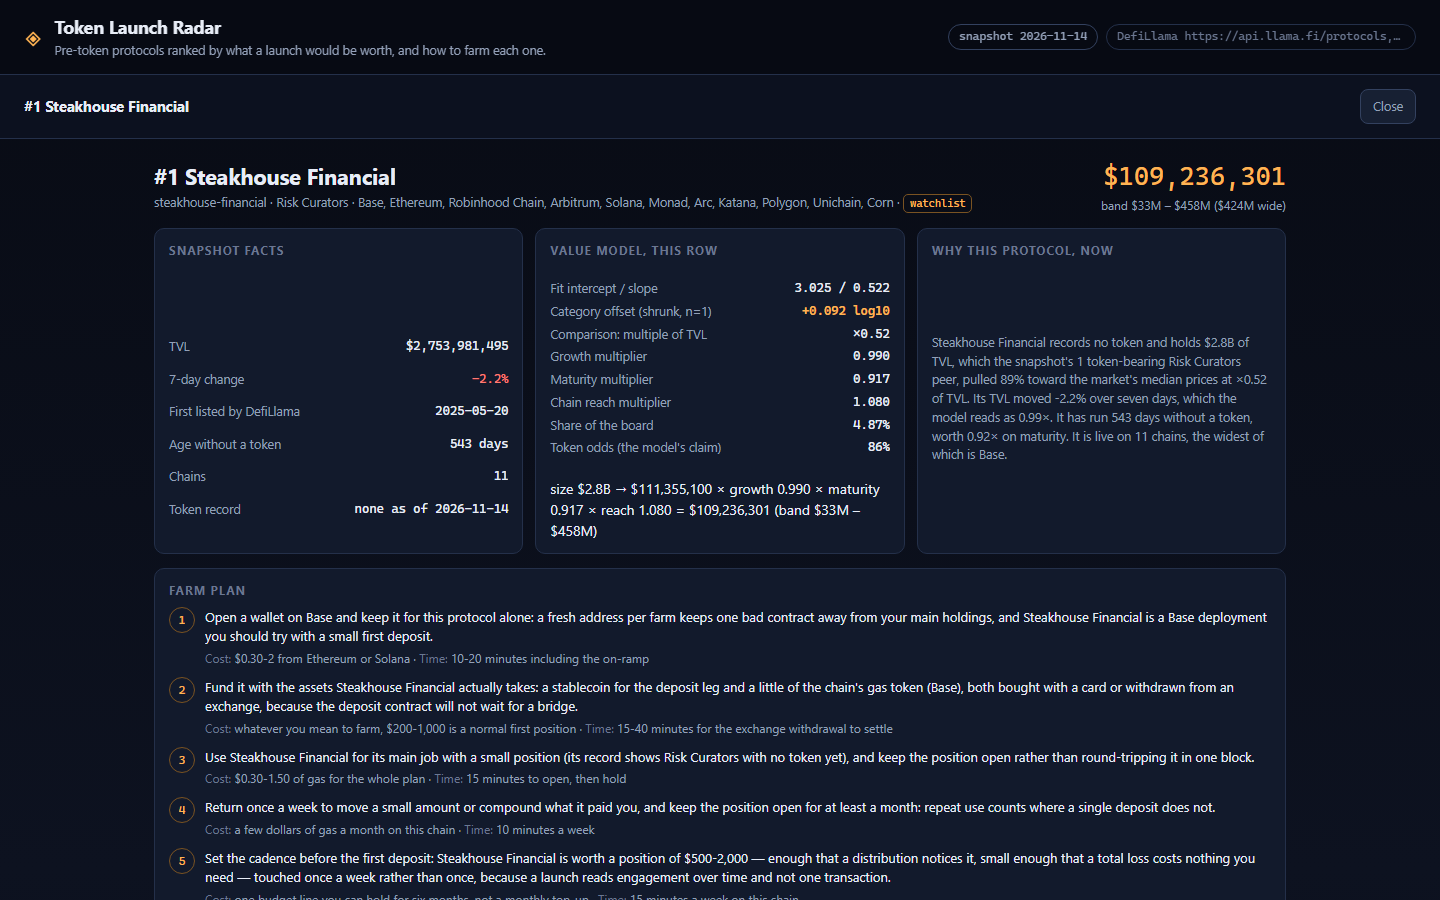
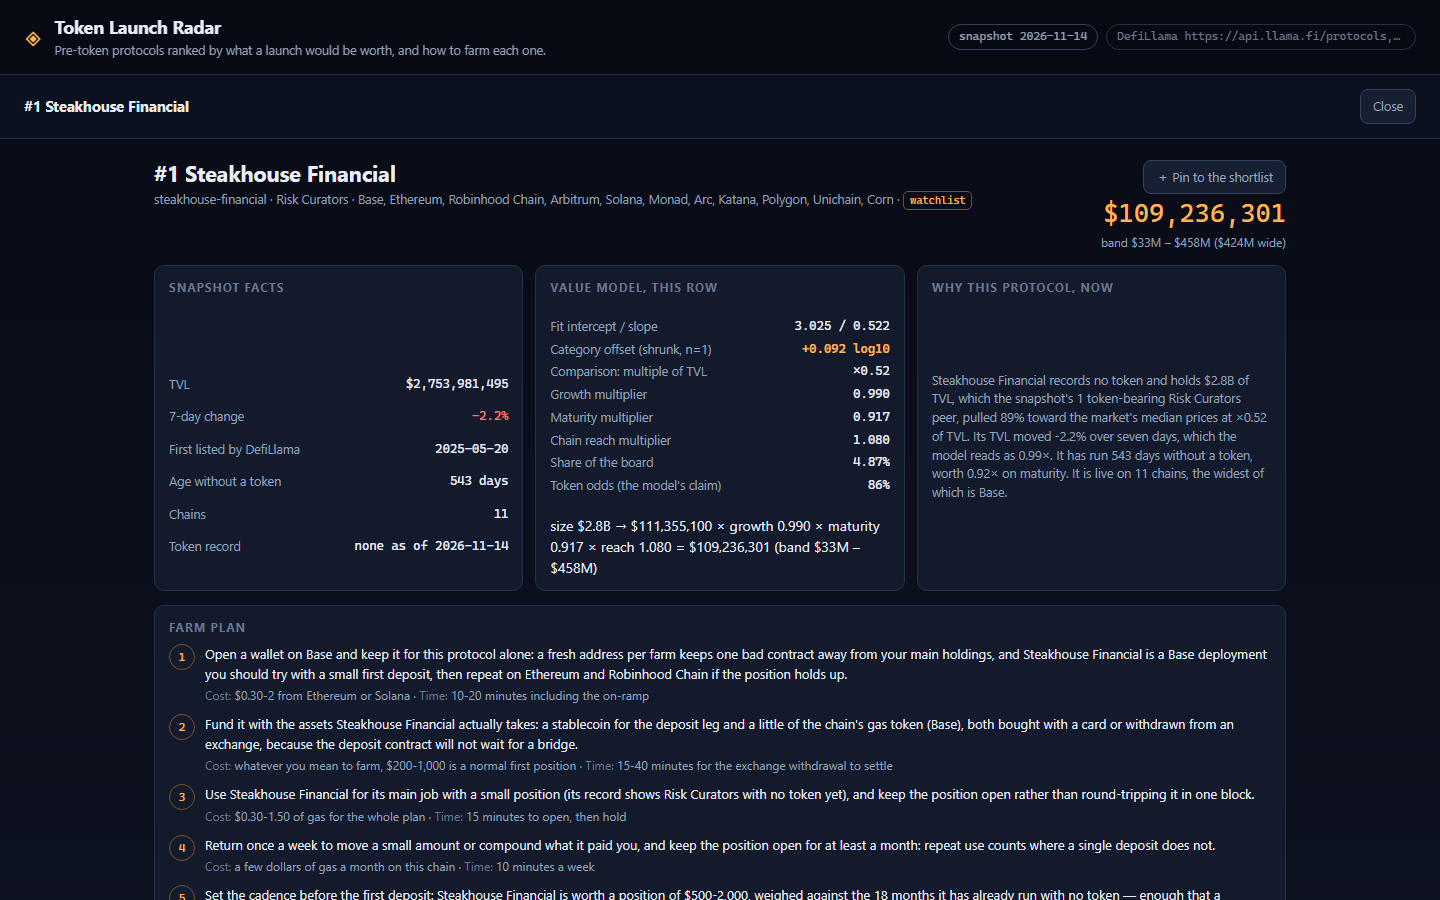
A shortlist with pinning, a side-by-side compare view, plans that follow the row chains, and a mirroring output copy

diff --git a/dashboard/app.js b/dashboard/app.js
@@ -63,8 +63,24 @@
     minTvl: 0,
     sort: 'rank',
     growing: false,
-    slug: null
+    slug: null,
+    pins: [],
+    compare: []
   };
+  var STORE = 'token-radar-shortlist-v1';
+  function readStoredPins() {
+    try {
+      var saved = window.localStorage.getItem(STORE);
+      if (!saved) return [];
+      var list = JSON.parse(saved);
+      return Array.isArray(list) ? list.filter(function (s) { return bySlug[s]; }) : [];
+    } catch (e) {
+      return [];
+    }
+  }
+  function storePins() {
+    try { window.localStorage.setItem(STORE, JSON.stringify(state.pins)); } catch (e) { /* a file:// page may refuse; the address still carries them */ }
+  }
   var params = new URLSearchParams(window.location.search);
   ['view', 'q', 'category', 'chain', 'sort', 'slug'].forEach(function (key) {
     var value = params.get(key);
@@ -72,6 +88,10 @@
   });
   if (params.get('minTvl')) state.minTvl = Number(params.get('minTvl')) || 0;
   if (params.get('growing') === '1') state.growing = true;
+  var urlPins = (params.get('pins') || '').split(',').filter(function (s) { return bySlug[s]; });
+  state.pins = urlPins.length ? urlPins : readStoredPins();
+  state.compare = (params.get('compare') || '').split(',').filter(function (s) { return bySlug[s]; }).slice(0, 2);
+  if (state.compare.length === 2 && !params.get('view')) state.view = 'compare';
 
   function push() {
     var q = new URLSearchParams();
@@ -83,6 +103,8 @@
     if (state.sort !== 'rank') q.set('sort', state.sort);
     if (state.growing) q.set('growing', '1');
     if (state.slug) q.set('slug', state.slug);
+    if (state.pins.length) q.set('pins', state.pins.join(','));
+    if (state.compare.length) q.set('compare', state.compare.join(','));
     var url = window.location.pathname + (q.toString() ? '?' + q.toString() : '');
     try { window.history.replaceState(null, '', url); } catch (e) { /* a file:// page may refuse; the view still works */ }
   }
@@ -201,6 +223,7 @@
         '<td class="num bandcell">' + usd(r.implied_low_usd) + ' – ' + usd(r.implied_high_usd) + '</td>' +
         '<td class="num">' + Math.round(r.token_odds * 100) + '%</td>' +
         '<td class="plan">' + r.farm_plan.length + ' steps · ' + esc(String(r.farm_plan[0].step).slice(0, 62)) + '…</td>' +
+        '<td><button type="button" class="pin' + (state.pins.indexOf(r.slug) >= 0 ? ' is-on' : '') + '" data-pin="' + esc(r.slug) + '" title="' + (state.pins.indexOf(r.slug) >= 0 ? 'Unpin' : 'Pin to the shortlist') + '">' + (state.pins.indexOf(r.slug) >= 0 ? '★' : '＋') + '</button></td>' +
         '</tr>';
     }).join('');
     var what = state.view === 'watch' ? 'watchlist rows' : 'ranked pre-token rows';
@@ -215,7 +238,7 @@
     livePanel.hidden = state.view !== 'live';
     marketPanel.hidden = state.view !== 'market';
     validationPanel.hidden = state.view !== 'validation';
-    var boardHidden = state.view === 'live' || state.view === 'market' || state.view === 'validation';
+    var boardHidden = state.view === 'live' || state.view === 'market' || state.view === 'validation' || state.view === 'compare';
     document.querySelector('.panel[aria-labelledby="boardh"]').hidden = boardHidden;
     el('kpis').hidden = state.view === 'validation';
     el('chartPanel').hidden = boardHidden;
@@ -279,8 +302,9 @@
       '<div class="dhead">' +
         '<div><h3>#' + r.rank + ' ' + esc(r.name) + '</h3>' +
         '<div class="dsub">' + esc(r.slug) + ' · ' + esc(r.category || 'uncategorised') + ' · ' + esc((r.chains || []).join(', ') || 'no chain recorded') +
-        (r.on_watchlist ? ' · <span class="badge">watchlist</span>' : ' · below the watchlist floor') + '</div></div>' +
-        '<div class="dvalue"><div class="v">' + usdExact(r.implied_value_usd) + '</div>' +
+        (r.on_watchlist ? ' · <span class="badge">watchlist</span>' : ' · off the watchlist, ranked by the model all the same') + '</div></div>' +
+        '<div class="dvalue"><button type="button" class="reset" data-pin="' + esc(r.slug) + '">' + (state.pins.indexOf(r.slug) >= 0 ? '★ Pinned' : '＋ Pin to the shortlist') + '</button>' +
+        '<div class="v">' + usdExact(r.implied_value_usd) + '</div>' +
         '<div class="s">band ' + usd(r.implied_low_usd) + ' – ' + usd(r.implied_high_usd) + ' (' + usd(band) + ' wide)</div></div>' +
       '</div>' +
       '<div class="dgrid">' +
@@ -349,6 +373,12 @@
   }
 
   el('rows').addEventListener('click', function (event) {
+    var pin = event.target.closest('[data-pin]');
+    if (pin) {
+      event.stopPropagation();
+      togglePin(pin.getAttribute('data-pin'));
+      return;
+    }
     var tr = event.target.closest('tr[data-slug]');
     if (tr) openDetail(tr.getAttribute('data-slug'));
   });
@@ -376,6 +406,10 @@
     document.body.removeChild(link);
   });
   el('close').addEventListener('click', closeDetail);
+  el('detail').addEventListener('click', function (event) {
+    var pin = event.target.closest('[data-pin]');
+    if (pin) togglePin(pin.getAttribute('data-pin'));
+  });
   document.addEventListener('keydown', function (event) {
     if (event.key === 'Escape' && state.slug) closeDetail();
   });
@@ -410,18 +444,107 @@
     });
   });
   Array.prototype.forEach.call(document.querySelectorAll('.tab'), function (tab) {
-    tab.addEventListener('click', function () {
-      state.view = tab.getAttribute('data-view');
-      Array.prototype.forEach.call(document.querySelectorAll('.tab'), function (other) {
-        var on = other === tab;
-        other.classList.toggle('is-on', on);
-        other.setAttribute('aria-selected', on ? 'true' : 'false');
-      });
-      closeDetailIfOpen();
-      render(); push();
-    });
+    tab.addEventListener('click', function () { setView(tab.getAttribute('data-view')); });
   });
   function closeDetailIfOpen() { if (state.slug) closeDetail(); }
+
+  // ---------------------------------------------------------------- shortlist and side by side
+  function togglePin(slug) {
+    var at = state.pins.indexOf(slug);
+    if (at >= 0) state.pins.splice(at, 1);
+    else state.pins.push(slug);
+    storePins();
+    renderPins();
+    render();
+    push();
+  }
+
+  function renderPins() {
+    var pinned = state.pins.map(function (slug) { return bySlug[slug]; }).filter(Boolean);
+    el('pinnedPanel').hidden = pinned.length === 0;
+    el('pinnedList').innerHTML = pinned.map(function (r) {
+      return '<div class="pinrow">' +
+        '<span class="rank">#' + r.rank + '</span>' +
+        '<span>' + esc(r.name) + ' <span class="slug">' + esc(r.category || '—') + '</span></span>' +
+        '<span class="val">' + usd(r.implied_value_usd) + '</span>' +
+        '<span class="meta">odds ' + Math.round(r.token_odds * 100) + '%</span>' +
+        '<span class="meta">' + (r.on_watchlist ? 'watchlist' : 'off the watchlist') + '</span>' +
+        '<span><button type="button" class="pin is-on" data-unpin="' + esc(r.slug) + '" title="Unpin">×</button>' +
+        ' <button type="button" class="reset" data-solo="' + esc(r.slug) + '">Open</button></span>' +
+      '</div>';
+    }).join('');
+    el('compare').hidden = pinned.length < 2;
+    el('clearPins').hidden = pinned.length === 0;
+  }
+
+  el('pinnedList').addEventListener('click', function (event) {
+    var unpin = event.target.closest('[data-unpin]');
+    if (unpin) { togglePin(unpin.getAttribute('data-unpin')); return; }
+    var solo = event.target.closest('[data-solo]');
+    if (solo) { state.compare = []; openDetail(solo.getAttribute('data-solo')); }
+  });
+  el('clearPins').addEventListener('click', function () {
+    state.pins = [];
+    state.compare = [];
+    storePins();
+    setView(state.view === 'compare' ? 'pre' : state.view);
+  });
+  el('compare').addEventListener('click', function () {
+    state.compare = state.pins.slice(0, 2);
+    setView('compare');
+  });
+  function setView(view) {
+    state.view = view;
+    Array.prototype.forEach.call(document.querySelectorAll('.tab'), function (tab) {
+      var on = tab.getAttribute('data-view') === view;
+      tab.classList.toggle('is-on', on);
+      tab.setAttribute('aria-selected', on ? 'true' : 'false');
+    });
+    closeDetailIfOpen();
+    render();
+    push();
+  }
+
+  function compareSide(r) {
+    var peers = (peersByCategory[r.category || 'Uncategorised'] || []).slice(0, 5);
+    var steps = r.farm_plan.slice(0, 4).map(function (s) {
+      return '<li><div><div class="what">' + esc(s.step) + '</div><div class="when"><span>Cost:</span> ' + esc(s.cost) + ' · <span>Time:</span> ' + esc(s.time) + '</div></div></li>';
+    }).join('');
+    return '<div class="side">' +
+      '<h3>#' + r.rank + ' ' + esc(r.name) + (r.on_watchlist ? '<span class="badge">watchlist</span>' : '') + '</h3>' +
+      '<div class="dsub">' + esc(r.category || 'uncategorised') + ' · ' + esc((r.chains || []).join(', ') || 'no chain recorded') + '</div>' +
+      '<div class="card"><h4>Value</h4><dl class="kv">' +
+        '<dt>Implied value</dt><dd class="val">' + usdExact(r.implied_value_usd) + '</dd>' +
+        '<dt>Band</dt><dd>' + usd(r.implied_low_usd) + ' – ' + usd(r.implied_high_usd) + '</dd>' +
+        '<dt>TVL</dt><dd>' + usdExact(r.tvl_usd) + '</dd>' +
+        '<dt>7-day change</dt><dd class="' + pctClass(r.change_7d) + '">' + pct(r.change_7d) + '</dd>' +
+        '<dt>Age without a token</dt><dd>' + (r.age_days === null ? 'unknown' : r.age_days + ' days') + '</dd>' +
+        '<dt>Token odds</dt><dd>' + Math.round(r.token_odds * 100) + '%</dd>' +
+        '<dt>Category offset</dt><dd>' + (r.fitted_offset >= 0 ? '+' : '') + r.fitted_offset.toFixed(3) + ' log10 (n=' + r.fitted_offset_sample + ')</dd>' +
+        '<dt>Growth / maturity / reach</dt><dd>' + r.growth_multiplier.toFixed(2) + ' / ' + r.maturity_multiplier.toFixed(2) + ' / ' + r.reach_multiplier.toFixed(2) + '</dd></dl>' +
+        '<div class="formula">' + usd(r.tvl_usd) + ' → size ' + usdExact(r.implied_value_usd / (r.growth_multiplier * r.maturity_multiplier * r.reach_multiplier)) + ' × ' + r.growth_multiplier.toFixed(3) + ' × ' + r.maturity_multiplier.toFixed(3) + ' × ' + r.reach_multiplier.toFixed(3) + ' = ' + usdExact(r.implied_value_usd) + '</div></div>' +
+      '<div class="card"><h4>First steps</h4><ol class="steps">' + steps + '</ol></div>' +
+      '<div class="card"><h4>Comparison set</h4>' + (peers.length ? '<table class="mini"><tbody>' + peers.map(function (p) { return '<tr><td>' + esc(p.name) + '</td><td class="num">' + times(p.multiple) + '</td></tr>'; }).join('') + '</tbody></table>' : '<p class="note">No token-bearing peer in this category.</p>') + '</div>' +
+      '<button type="button" class="reset" data-solo="' + esc(r.slug) + '">Open the full detail view</button>' +
+    '</div>';
+  }
+
+  function renderCompare() {
+    var sides = state.compare.map(function (slug) { return bySlug[slug]; }).filter(Boolean);
+    var ok = sides.length === 2;
+    el('comparePanel').hidden = state.view !== 'compare';
+    if (!ok) {
+      el('compareGrid').innerHTML = '<p class="empty">Pin two protocols and press Compare, or open this view with ?compare=&lt;slug&gt;,&lt;slug&gt;. ' + state.pins.length + ' pinned so far.</p>';
+      el('compareNote').textContent = '';
+      return;
+    }
+    el('compareNote').textContent = 'The same arithmetic, side by side: what each protocol is worth under the fitted model, what it would take to farm, and which peers its multiple comes from.';
+    el('compareGrid').innerHTML = compareSide(sides[0]) + compareSide(sides[1]);
+  }
+  el('compareGrid').addEventListener('click', function (event) {
+    var solo = event.target.closest('[data-solo]');
+    if (solo) openDetail(solo.getAttribute('data-solo'));
+  });
 
   // ---------------------------------------------------------------- first paint
   Array.prototype.forEach.call(document.querySelectorAll('.tab'), function (tab) {
@@ -430,7 +553,9 @@
     tab.setAttribute('aria-selected', on ? 'true' : 'false');
   });
   drawChart();
+  renderPins();
   render();
+  renderCompare();
   if (state.slug && bySlug[state.slug]) openDetail(state.slug);
   document.getElementById('board').setAttribute('aria-busy', 'false');
 })();

diff --git a/lib/farm.ts b/lib/farm.ts
@@ -82,10 +82,12 @@ export function farmPlan(row: RadarRow, protocol: SnapshotProtocol): FarmStep[] 
   const cost = chainCost(chain);
   const name = row.name;
   const family = familyOf(row.category);
-  const tenure = row.age_days === null ? 'however long it has run' : `${Math.round(row.age_days / 30)} months`;
+  const months = row.age_days === null ? null : Math.round(row.age_days / 30);
+  const tenure = months === null ? 'however long it has run' : `${months} months`;
 
+  const spread = (protocol.chains ?? []).filter((c) => c !== chain).slice(0, 2);
   const setup: FarmStep = {
-    step: `Open a wallet on ${chain} and keep it for this protocol alone: a fresh address per farm keeps one bad contract away from your main holdings, and ${name} is a ${chain} deployment you should try with a small first deposit.`,
+    step: `Open a wallet on ${chain} and keep it for this protocol alone: a fresh address per farm keeps one bad contract away from your main holdings, and ${name} is a ${chain} deployment you should try with a small first deposit${spread.length ? `, then repeat on ${spread.join(' and ')} if the position holds up` : ''}.`,
     cost: cost.bridge,
     time: '10-20 minutes including the on-ramp',
   };
@@ -195,7 +197,7 @@ export function farmPlan(row: RadarRow, protocol: SnapshotProtocol): FarmStep[] 
   };
 
   const cadence: FarmStep = {
-    step: `Set the cadence before the first deposit: ${name} is worth a position of ${suggestedBudget(row)} — enough that a distribution notices it, small enough that a total loss costs nothing you need — touched once a week rather than once, because a launch reads engagement over time and not one transaction.`,
+    step: `Set the cadence before the first deposit: ${name} is worth a position of ${suggestedBudget(row)}${months === null ? '' : `, weighed against the ${tenure} it has already run with no token`} — enough that a distribution notices it, small enough that a total loss costs nothing you need — touched once a week rather than once, because a launch reads engagement over time and not one transaction.`,
     cost: 'one budget line you can hold for six months, not a monthly top-up',
     time: '15 minutes a week on this chain',
   };

diff --git a/dashboard/index.html b/dashboard/index.html
@@ -24,6 +24,24 @@
 <main>
   <section id="kpis" class="kpis" aria-label="Snapshot at a glance"></section>
 
+  <section class="panel" id="pinnedPanel" hidden aria-labelledby="pinnedh">
+    <div class="panelhead">
+      <h2 id="pinnedh">Your shortlist</h2>
+      <div class="pinacts">
+        <button type="button" class="reset" id="compare">Compare the first two</button>
+        <button type="button" class="reset" id="clearPins">Unpin all</button>
+      </div>
+    </div>
+    <p class="note">Pinned protocols are kept in this browser and in the page's own address, so a shortlist survives a reload and can be shared. Pin two or more and compare them side by side.</p>
+    <div id="pinnedList" class="pinned"></div>
+  </section>
+
+  <section class="panel" id="comparePanel" hidden aria-labelledby="compareh">
+    <h2 id="compareh">Side by side</h2>
+    <p class="note" id="compareNote"></p>
+    <div id="compareGrid" class="compare"></div>
+  </section>
+
   <section class="panel chartpanel" id="chartPanel" aria-labelledby="charth">
     <div class="panelhead">
       <h2 id="charth">The radar's head: the twelve biggest implied launches</h2>
@@ -46,6 +64,7 @@
         <button class="tab" role="tab" aria-selected="false" data-view="live">Already trading</button>
         <button class="tab" role="tab" aria-selected="false" data-view="market">Market multiples</button>
         <button class="tab" role="tab" aria-selected="false" data-view="validation">Model check</button>
+        <button class="tab" role="tab" aria-selected="false" data-view="compare">Side by side</button>
       </div>
     </div>
 
@@ -109,6 +128,7 @@
             <th class="num sortable" data-sort="band">Band width</th>
             <th class="num sortable" data-sort="odds">Token odds</th>
             <th>Farm</th>
+            <th title="Pin to your shortlist">Pin</th>
           </tr>
         </thead>
         <tbody id="rows"></tbody>

diff --git a/dashboard/app.css b/dashboard/app.css
@@ -119,6 +119,24 @@ input[type="search"]:focus, select:focus { outline: 2px solid var(--amber-dim); 
 .bartrack > i { display: block; height: 100%; background: linear-gradient(90deg, #4a3418, var(--amber)); }
 .barvalue { font-family: var(--mono); font-size: 12.5px; color: var(--amber); text-align: right; }
 @media (max-width: 720px) { .barrow { grid-template-columns: 1fr 70px; } .bartrack { display: none; } }
+.pinacts { display: flex; gap: 8px; }
+.pinned { display: grid; gap: 6px; }
+.pinrow { display: grid; grid-template-columns: 34px minmax(140px, 1fr) 92px 92px 92px auto; gap: 10px; align-items: center; font-size: 12.5px; }
+.pinrow .rank { font-family: var(--mono); color: var(--faint); }
+.pinrow .val { font-family: var(--mono); color: var(--amber); }
+.pinrow .meta { color: var(--muted); font-family: var(--mono); }
+.pin {
+  background: none; border: 1px solid var(--line-2); color: var(--muted); border-radius: 6px;
+  width: 24px; height: 22px; line-height: 1; cursor: pointer; font: inherit; font-size: 12px;
+}
+.pin:hover { color: var(--text); border-color: var(--amber-dim); }
+.pin.is-on { color: var(--amber); border-color: var(--amber); background: rgba(255, 180, 84, 0.08); }
+.compare { display: grid; grid-template-columns: repeat(auto-fit, minmax(320px, 1fr)); gap: 12px; }
+.compare .side { display: grid; gap: 10px; }
+.compare h3 { font-size: 16px; }
+.compare .badge { margin-left: 6px; }
+.compare .steps { gap: 6px; }
+.compare table.mini td.num { font-family: var(--mono); }
 .tablewrap { overflow-x: auto; border: 1px solid var(--line); border-radius: 8px; }
 table.board { width: 100%; border-collapse: collapse; font-size: 13px; }
 table.board th.sortable { cursor: pointer; user-select: none; }

diff --git a/main.ts b/main.ts
@@ -7,7 +7,7 @@
 // The program is one pass, with no network call and no clock: the same snapshot always writes the same
 // bytes, which is what the grader's two runs compare.
 
-import { copyFileSync, existsSync, mkdirSync, readFileSync, readdirSync, statSync, writeFileSync } from 'node:fs';
+import { copyFileSync, existsSync, mkdirSync, readFileSync, readdirSync, statSync, unlinkSync, writeFileSync } from 'node:fs';
 import { join } from 'node:path';
 import { fileURLToPath } from 'node:url';
 import {
@@ -166,7 +166,7 @@ const data: RadarData = {
 };
 writeFileSync(join(out, 'data.js'), dataScript(data));
 
-/** Copy one directory's regular files into `to`, skipping names that start with a dot. */
+/** Copy one directory's regular files into `to`, skipping names that start with a dot and any stale file. */
 function copyFiles(from: string, to: string): string[] {
   if (!existsSync(from)) return [];
   mkdirSync(to, { recursive: true });
@@ -177,6 +177,13 @@ function copyFiles(from: string, to: string): string[] {
     if (!statSync(path).isFile()) continue;
     copyFileSync(path, join(to, name));
     copied.push(name);
+  }
+  // `to` mirrors `from`: a file the last run left there and this one does not carry is no longer part of the entry.
+  const kept = new Set(copied);
+  for (const name of readdirSync(to)) {
+    if (kept.has(name) || name.startsWith('.')) continue;
+    const path = join(to, name);
+    if (statSync(path).isFile()) unlinkSync(path);
   }
   return copied;
 }
